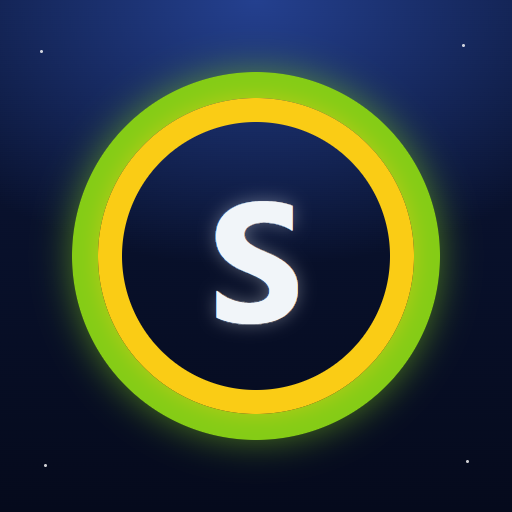
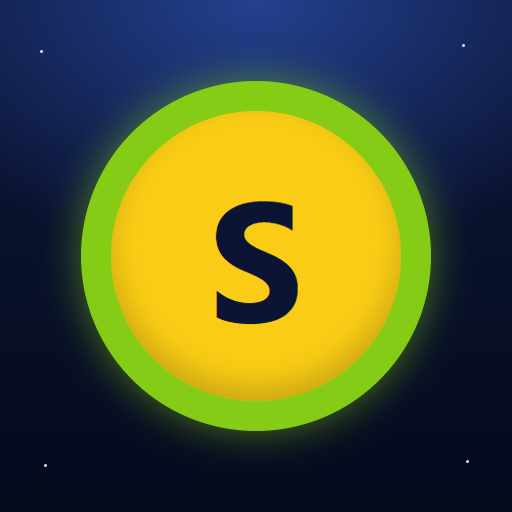
App 圖示改成單一圓：外綠內黃加 S

diff --git a/sw.js b/sw.js
@@ -1,7 +1,7 @@
 // 諸行漸次止息 service worker
 // 只快取 App 自己的檔案，讓手機離線也能打開。
 // 不處理、不傳送任何記憶資料（記憶只在 localStorage）。
-const CACHE = 'zhuxing-v3';
+const CACHE = 'zhuxing-v4';
 const FILES = [
   './',
   './index.html',
